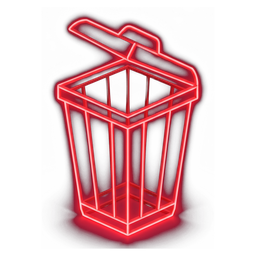
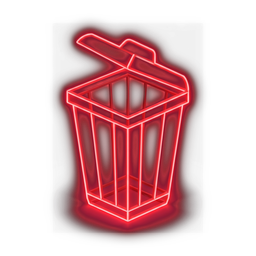
Brighter trash picto + harmonize it on the modal remove buttons
Regenerate icon-trash.png with two baked red glow halos so it reads on the
dark cards (it was too dim), and bump its size to 28px at full opacity.
Reuse the same picto (via .btn-trash-ico) on the detail modal's 'Retirer la
dernière saison/film' buttons instead of the 🗑 emoji, so the trash looks
identical everywhere and doesn't depend on the platform emoji font. SW
cache bumped to v27.

diff --git a/styles.css b/styles.css
@@ -588,17 +588,25 @@ label input {
   position: absolute;
   top: 6px;
   right: 6px;
-  width: 34px;
-  height: 34px;
+  width: 36px;
+  height: 36px;
   padding: 0;
   border: none;
-  background: url("icon-trash.png") center / 24px 24px no-repeat;
+  background: url("icon-trash.png") center / 28px 28px no-repeat;
   cursor: pointer;
-  opacity: 0.9;
-  transition: opacity 0.15s ease, transform 0.1s ease;
+  opacity: 1;
+  transition: transform 0.1s ease, filter 0.15s ease;
 }
-.card-delete:hover { opacity: 1; }
-.card-delete:active { opacity: 1; transform: scale(0.9); }
+.card-delete:active { transform: scale(0.9); }
+
+/* Petit picto poubelle en préfixe des boutons texte "Retirer…" (modale de
+   détail), pour rester cohérent avec le picto des cartes. */
+.btn-trash-ico {
+  width: 16px;
+  height: 16px;
+  vertical-align: -3px;
+  margin-right: 2px;
+}
 
 /* --------- Toast de succès --------- */
 

diff --git a/app.js b/app.js
@@ -2018,7 +2018,11 @@ function updateSeasonActionsVisibility(item) {
     ? Array.isArray(item.tmdb_seasons) && item.tmdb_seasons.length >= 2
     : Array.isArray(item.anilist_seasons) && item.anilist_seasons.length >= 2;
   removeBtn.classList.toggle("hidden", !hasMultipleSeasons);
-  removeBtn.textContent = isFilm ? "🗑 Retirer le dernier film" : "🗑 Retirer la dernière saison";
+  // Même picto poubelle que les cartes (voir .btn-trash-ico) plutôt que
+  // l'emoji, pour un rendu identique sur toutes les plateformes.
+  removeBtn.innerHTML = `<img class="btn-trash-ico" src="icon-trash.png" alt="" /> ${
+    isFilm ? "Retirer le dernier film" : "Retirer la dernière saison"
+  }`;
 }
 
 /** Échange deux entrées adjacentes (voir swapUnwatchedEntries) puis

diff --git a/sw.js b/sw.js
@@ -1,6 +1,6 @@
 // Incrémenter ce numéro à chaque changement du code de l'app force une
 // invalidation propre de l'ancien cache (voir activate ci-dessous).
-const CACHE_NAME = "suivi-shell-v26";
+const CACHE_NAME = "suivi-shell-v27";
 const APP_SHELL = [
   "./",
   "./index.html",
